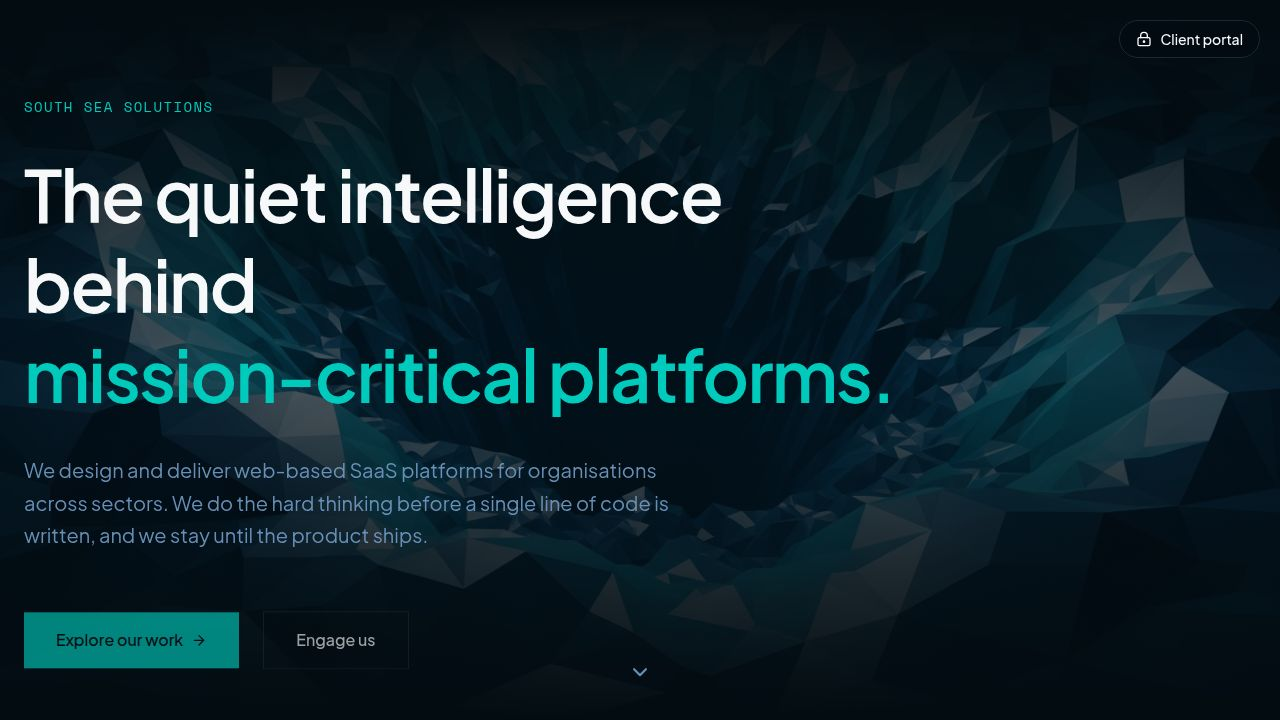
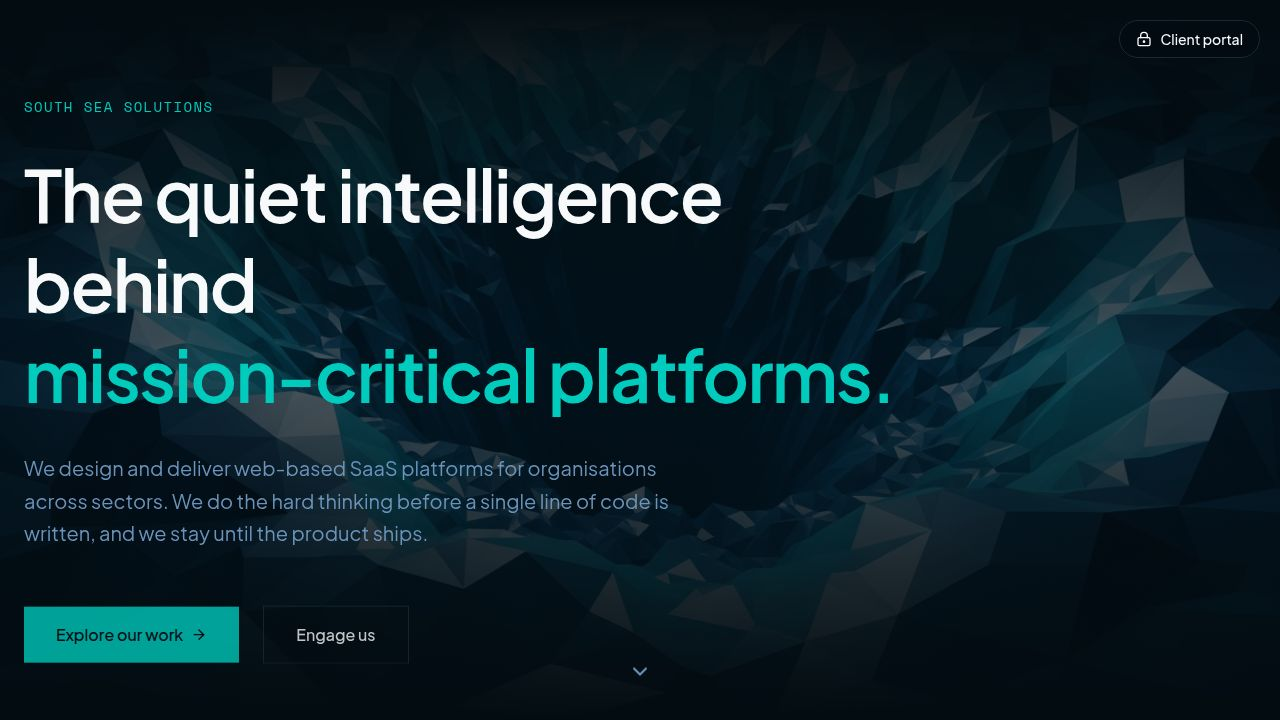
Show training completion trends on the console overview
Task: Surface per-org training completion rates on the superadmin
platform overview, computed server-side and rendered as a stat/column.

Changes:
- lib/api-spec/openapi.yaml: added `trainingCompletionRate` (integer
  percent 0-100) to both PlatformTotals and PlatformOrgStat schemas;
  regenerated hooks/Zod via api-spec codegen.
- artifacts/api-server/src/routes/platform.ts: the /platform/overview
  handler now counts global training modules once, then for each org
  computes completed (training_completions for that org's users) over
  possible (users x modules) and derives an integer percent. Totals
  aggregate raw completed/possible across orgs before dividing, so the
  total is a true weighted rate, not an average of per-org rates. Added
  a `completionPercent` helper that returns 0 when possible is 0. The
  intermediate `completed`/`possible` fields are stripped by the
  response Zod parse.
- artifacts/south-sea-solutions/src/pages/console/overview.tsx: added a
  "Training done" StatCard (grid widened to 6 cols) and a per-org
  GraduationCap percentage in each OrgRow. StatCard now accepts string
  values for the percent display.

Verification: full typecheck passes; logged in as the seeded superadmin
and confirmed /api/platform/overview returns the new fields with
sensible values (totals 7%, per-org 14% and 0%). Required dev DB
push + seed first as the dev database was empty.

No deviations from the task scope.

Replit-Task-Id: b2f875a1-ac47-4a01-9021-44f1615bd0e0

Changed region(s): [[0.0, 0.6417, 0.5312, 0.7639], [0.0, 0.825, 0.1875, 0.9472], [0.2188, 0.8556, 0.2812, 0.9167]]

diff --git a/artifacts/api-server/src/routes/platform.ts b/artifacts/api-server/src/routes/platform.ts
@@ -68,8 +68,16 @@ async function openAlertCountForOrg(orgId: string): Promise<number> {
   return alerts.filter((a) => !a.acknowledged).length;
 }
 
+function completionPercent(completed: number, possible: number): number {
+  if (possible <= 0) return 0;
+  return Math.round((completed / possible) * 100);
+}
+
 router.get("/platform/overview", ...guards, async (_req, res): Promise<void> => {
   const orgs = await db.select().from(orgsTable).orderBy(asc(orgsTable.name));
+
+  // Training modules are global, so the count is shared across every org.
+  const moduleCount = (await db.select().from(trainingModulesTable)).length;
 
   const perOrg = await Promise.all(
     orgs.map(async (org) => {
@@ -82,6 +90,20 @@ router.get("/platform/overview", ...guards, async (_req, res): Promise<void> => 
           ? await db.select().from(vehiclesTable).where(inArray(vehiclesTable.fleetId, fleetIds))
           : [];
       const openAlerts = await openAlertCountForOrg(org.id);
+
+      // Completion rate: percent of (user x module) pairs this org's users have finished.
+      const userIds = users.map((u) => u.id);
+      const completed =
+        userIds.length > 0 && moduleCount > 0
+          ? (
+              await db
+                .select()
+                .from(trainingCompletionsTable)
+                .where(inArray(trainingCompletionsTable.userId, userIds))
+            ).length
+          : 0;
+      const possible = users.length * moduleCount;
+
       return {
         id: org.id,
         name: org.name,
@@ -91,9 +113,15 @@ router.get("/platform/overview", ...guards, async (_req, res): Promise<void> => 
         drivers: drivers.length,
         vehicles: vehicles.length,
         openAlerts,
+        completed,
+        possible,
+        trainingCompletionRate: completionPercent(completed, possible),
       };
     }),
   );
+
+  const totalCompleted = perOrg.reduce((n, o) => n + o.completed, 0);
+  const totalPossible = perOrg.reduce((n, o) => n + o.possible, 0);
 
   const totals = {
     orgs: orgs.length,
@@ -101,6 +129,7 @@ router.get("/platform/overview", ...guards, async (_req, res): Promise<void> => 
     drivers: perOrg.reduce((n, o) => n + o.drivers, 0),
     vehicles: perOrg.reduce((n, o) => n + o.vehicles, 0),
     openAlerts: perOrg.reduce((n, o) => n + o.openAlerts, 0),
+    trainingCompletionRate: completionPercent(totalCompleted, totalPossible),
   };
 
   res.json(GetPlatformOverviewResponse.parse({ totals, orgs: perOrg }));

diff --git a/artifacts/south-sea-solutions/src/pages/console/overview.tsx b/artifacts/south-sea-solutions/src/pages/console/overview.tsx
@@ -1,5 +1,5 @@
 import { Link, useLocation } from "wouter";
-import { Building2, Users, Truck, Car, BellRing, Loader2, LogIn, ChevronRight } from "lucide-react";
+import { Building2, Users, Truck, Car, BellRing, GraduationCap, Loader2, LogIn, ChevronRight } from "lucide-react";
 import {
   useGetPlatformOverview,
   getGetPlatformOverviewQueryKey,
@@ -10,7 +10,7 @@ import { useEnterOrg } from "@/portal/auth-hooks";
 import { StatusPill } from "@/portal/ui";
 import { Button } from "@/components/ui/button";
 
-function StatCard({ icon, label, value }: { icon: React.ReactNode; label: string; value: number }) {
+function StatCard({ icon, label, value }: { icon: React.ReactNode; label: string; value: number | string }) {
   return (
     <div className="rounded-2xl border bg-card p-5">
       <div className="flex items-center gap-2 text-muted-foreground">
@@ -65,6 +65,10 @@ function OrgRow({ org }: { org: PlatformOrgStat }) {
           <BellRing className="h-3.5 w-3.5" />
           {org.openAlerts}
         </span>
+        <span className="inline-flex items-center gap-1">
+          <GraduationCap className="h-3.5 w-3.5" />
+          {org.trainingCompletionRate}%
+        </span>
       </div>
       <Button
         variant="outline"
@@ -106,12 +110,13 @@ export default function ConsoleOverviewPage() {
         </div>
       ) : data ? (
         <>
-          <div className="grid gap-4 sm:grid-cols-2 lg:grid-cols-5">
+          <div className="grid gap-4 sm:grid-cols-2 lg:grid-cols-6">
             <StatCard icon={<Building2 className="h-4 w-4" />} label="Orgs" value={data.totals.orgs} />
             <StatCard icon={<Users className="h-4 w-4" />} label="Users" value={data.totals.users} />
             <StatCard icon={<Truck className="h-4 w-4" />} label="Drivers" value={data.totals.drivers} />
             <StatCard icon={<Car className="h-4 w-4" />} label="Vehicles" value={data.totals.vehicles} />
             <StatCard icon={<BellRing className="h-4 w-4" />} label="Open alerts" value={data.totals.openAlerts} />
+            <StatCard icon={<GraduationCap className="h-4 w-4" />} label="Training done" value={`${data.totals.trainingCompletionRate}%`} />
           </div>
 
           <div className="mt-8 rounded-2xl border bg-card">